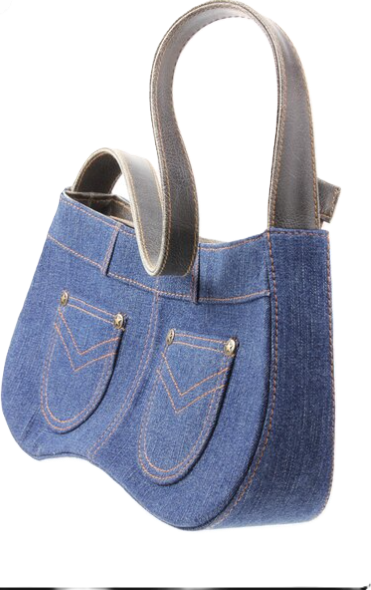
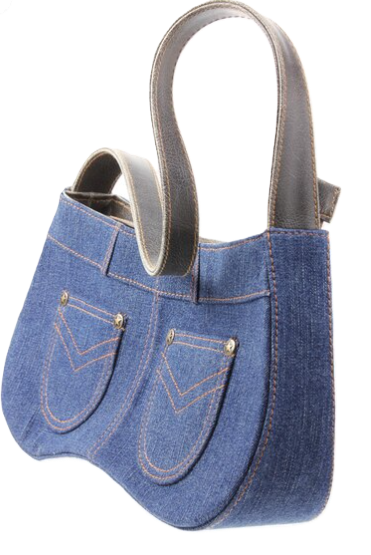
Adjusted the visibility

diff --git a/src/App.tsx b/src/App.tsx
@@ -130,7 +130,7 @@ export default function App() {
           <motion.div initial={{ opacity: 0, y: 30 }} animate={{ opacity: 1, y: 0 }} className="relative z-10 px-6 text-center">
             <div className="inline-flex items-center gap-4 px-6 py-2 rounded-full bg-zinc-950 text-white text-[11px] font-black uppercase tracking-[0.4em] mb-12 shadow-xl ring-8 ring-zinc-50 dark:ring-zinc-900 mx-auto transition-colors">
               <TrendingUp className="w-3.5 h-3.5" />
-              <span>Investment Proposal // RCA 2026</span>
+              <span>THE INVESTORS # RCA 2026</span>
             </div>
             <h1 className="text-6xl md:text-8xl lg:text-[140px] font-black text-zinc-950 dark:text-white tracking-[-0.06em] mb-12 leading-[0.8] uppercase mx-auto transition-colors text-center">
               Financial <br />
@@ -284,40 +284,63 @@ export default function App() {
       y: 2000,
       scale: 1,
       component: (
-        <div className="relative w-full max-w-7xl px-6 flex flex-col items-center justify-center min-h-[60vh]">
-          {/* Unconfined Massive Raw Material Pile */}
-          <div className="absolute inset-0 pointer-events-none -z-10 flex items-center justify-start overflow-visible">
+        <div className="relative w-full max-w-7xl px-6 lg:px-12 flex flex-col items-center min-h-[90vh] justify-center">
+          {/* Background Parallax Images - Refined Placement */}
+          <div className="absolute inset-0 pointer-events-none -z-10 overflow-visible">
              <motion.div 
-               initial={{ opacity: 0, scale: 0.5, x: -200 }}
-               whileInView={{ opacity: 0.7, scale: 1.5, x: -300 }}
-               transition={{ duration: 3, ease: "easeOut" }}
-               className="w-full max-w-5xl"
+               initial={{ opacity: 0, x: 150, y: 120, rotate: -5 }}
+               whileInView={{ opacity: 0.9, x: -100, y: 0, rotate: -10 }}
+               transition={{ duration: 4, ease: "easeOut" }}
+               className="absolute left-[-15%] bottom-[12%] w-[800px] h-[800px]"
              >
-                <img src="/images/collected-jeans-pile.png" alt="" className="w-full h-full object-contain filter drop-shadow-[0_60px_100px_rgba(0,0,0,0.2)]" />
+                <img src="/images/collected-jeans-pile.png" alt="" className="w-full h-full object-contain" />
+             </motion.div>
+             <motion.div 
+               initial={{ opacity: 0, x: 100, y: -50, rotate: 10 }}
+               whileInView={{ opacity: 0.8, x: 250, y: 150, rotate: 15 }}
+               transition={{ duration: 5, ease: "easeOut", delay: 0.2 }}
+               className="absolute right-[-5%] top-[12%] w-[500px] h-[500px]"
+             >
+                <img src="/images/bag0.png" alt="" className="w-full h-full object-contain drop-shadow-2xl" />
              </motion.div>
           </div>
 
-          <div className="w-full max-w-4xl space-y-12 relative z-10 text-center">
-            <div className="space-y-4">
-              <h2 className="text-7xl font-black text-zinc-950 dark:text-white tracking-tighter uppercase italic leading-none">Material <span className="text-indigo-600 underline decoration-zinc-100 dark:decoration-zinc-800 decoration-8 underline-offset-8 text-center">INPUTS</span></h2>
-              <p className="text-zinc-500 dark:text-zinc-400 text-2xl font-bold max-w-2xl mx-auto text-center">Granular material cost justification for Portfolio 01.</p>
+          <div className="w-full relative z-10 flex flex-col gap-8">
+            <div className="space-y-2 text-center lg:text-right">
+              <h2 className="text-5xl md:text-6xl lg:text-7xl font-black text-zinc-950 dark:text-white tracking-tighter uppercase italic leading-none">Material <span className="text-indigo-600 underline decoration-zinc-100 dark:decoration-zinc-800 decoration-4 underline-offset-4">INPUTS</span></h2>
+              <p className="text-zinc-500 dark:text-zinc-400 text-lg lg:text-xl font-bold uppercase tracking-tight">Granular material cost justification for Portfolio 01.</p>
             </div>
-            <Table 
-              headers={['Required Material', 'Budget (RWF)', 'Audit Purpose']}
-              rows={[
-                ['Second-hand Jeans', '50,000', 'Core Fabric Sourcing'],
-                ['Zippers', '15,000', 'Structural Fasteners'],
-                ['Thread', '5,000', 'Manufacturing Essential'],
-                ['Inner Lining Fabric', '15,000', 'Internal Finishing'],
-                ['Handles & Straps', '10,000', 'Hardware'],
-                ['Labels & Decorations', '10,000', 'Branding Basis'],
-                ['Packaging', '20,000', 'Market Presentation'],
-                ['Marketing & Transport', '40,000', 'Outreach & Logistics'],
-                ['Extra Material Reserve', '50,000', 'Production Buffer'],
-                [<span className="text-indigo-600 font-black uppercase tracking-widest text-[10px]">Total Material Capex</span>, '', <span className="text-indigo-600 font-black text-2xl text-center">205,000</span>]
-              ]}
-              highlightLast
-            />
+            
+            <div className="grid grid-cols-1 lg:grid-cols-12 gap-8 items-start">
+               <div className="lg:col-span-8">
+                  <Table 
+                    headers={['Required Material', 'Budget (RWF)']}
+                    rows={[
+                      ['Second-hand Jeans', '50,000'],
+                      ['Zippers & Thread', '20,000'],
+                      ['Inner Lining Fabric', '15,000'],
+                      ['Handles & Straps', '10,000'],
+                      ['Labels & Branding', '10,000'],
+                      ['Packaging', '20,000'],
+                      ['Marketing & Transport', '40,000'],
+                      ['Reserve Buffer', '40,000'],
+                      [<span className="text-indigo-600 font-black uppercase text-[10px]">Total CAPEX</span>, <span className="text-indigo-600 font-black text-2xl">205,000</span>]
+                    ]}
+                    highlightLast
+                  />
+               </div>
+               <div className="lg:col-span-4 h-full">
+                  <div className="p-6 lg:p-8 rounded-3xl bg-white/60 dark:bg-zinc-900/60 backdrop-blur-2xl border-4 border-zinc-100 dark:border-zinc-800 shadow-2xl space-y-4 lg:space-y-6 transition-colors h-full flex flex-col justify-center text-center lg:text-right">
+                     <div className="w-12 h-1 bg-indigo-600 rounded-full mx-auto lg:ml-auto lg:mr-0" />
+                     <p className="text-xl lg:text-2xl font-black text-zinc-950 dark:text-white uppercase tracking-tighter leading-tight italic">
+                       "Waste transformation into functional assets."
+                     </p>
+                     <p className="text-xs lg:text-sm font-bold text-zinc-500 dark:text-zinc-400 uppercase tracking-widest leading-relaxed">
+                       Every material is sourced locally, emphasizing durability and aesthetic consistency across the first production cycle.
+                     </p>
+                  </div>
+               </div>
+            </div>
           </div>
         </div>
       )
@@ -329,41 +352,52 @@ export default function App() {
       y: 2000,
       scale: 1,
       component: (
-        <div className="relative flex flex-col items-center justify-center w-full max-w-7xl px-6 text-center">
-          {/* Persisting Raw Material Anchor - Smaller & Unconfined */}
-          <div className="absolute bottom-0 left-[-10%] pointer-events-none -z-10 p-8">
-             <div className="w-96 md:w-[600px] opacity-20 rotate-[-5deg]">
-                <img src="/images/collected-jeans-pile.png" alt="" className="w-full h-full object-contain" />
-             </div>
+        <div className="relative w-full max-w-7xl px-6 lg:px-12 flex flex-col items-center min-h-[85vh] justify-center">
+          {/* Background Parallax Image - Better Contained */}
+          <div className="absolute inset-0 pointer-events-none -z-10 overflow-visible">
+             <motion.div 
+               initial={{ opacity: 0, scale: 0.8, rotate: -10, x: 100 }}
+               whileInView={{ opacity: 0.5, scale: 1.3, rotate: 5, x: 350, y: 150 }}
+               transition={{ duration: 6, ease: "easeOut" }}
+               className="absolute right-[-15%] bottom-[-10%] w-[900px] h-[900px]"
+             >
+                <img src="/images/bag.png" alt="" className="w-full h-full object-contain drop-shadow-2xl" />
+             </motion.div>
           </div>
 
-          <div className="space-y-10 w-full max-w-5xl flex flex-col items-center">
-            <div className="space-y-3">
-              <h2 className="text-7xl font-black text-zinc-950 dark:text-white tracking-tighter uppercase leading-none text-center italic">Tailor <br /><span className="text-indigo-600">LOGIC</span></h2>
-              <p className="text-2xl font-bold text-zinc-500 dark:text-zinc-400 max-w-md mx-auto text-center italic">Partnership with local tailors for expert manufacturing.</p>
-            </div>
-            
-            <div className="grid grid-cols-1 lg:grid-cols-2 gap-12 items-center w-full">
-              <div className="p-8 rounded-xl bg-indigo-600 text-white shadow-3xl relative overflow-hidden group mx-auto w-full max-w-md text-center">
-                 <div className="absolute top-0 right-0 p-8 opacity-20 group-hover:scale-110 transition-transform">
-                    <ShoppingBag size={120} />
-                 </div>
-                 <span className="text-xs font-black uppercase tracking-[0.3em] opacity-60">Unit Production Rate</span>
-                 <p className="text-6xl font-black tracking-tighter">3,500 <span className="text-xl font-normal">RWF</span></p>
-                 <p className="text-sm font-bold mt-2 uppercase tracking-widest text-indigo-200 text-center">Per Bag Produced</p>
+          <div className="w-full max-w-6xl relative z-10 grid grid-cols-1 lg:grid-cols-2 gap-16 lg:gap-24 items-center">
+            <div className="space-y-10 flex flex-col items-center lg:items-start text-center lg:text-left">
+              <div className="space-y-4">
+                <h2 className="text-8xl lg:text-9xl font-black text-zinc-950 dark:text-white tracking-tighter uppercase leading-[0.8] italic">Tailor <br /><span className="text-indigo-600">LOGIC</span></h2>
+                <p className="text-2xl lg:text-3xl font-bold text-zinc-500 dark:text-zinc-400 max-w-md mx-auto lg:mx-0 uppercase tracking-tight">Strategic manufacturing partnership.</p>
               </div>
-              <Table 
-                headers={['Production Component', 'Quantity / Rate', 'Subtotal']}
+              
+              <div className="w-full max-w-md">
+                <div className="p-10 lg:p-12 rounded-3xl bg-indigo-600 text-white shadow-[0_40px_80px_-20px_rgba(79,70,229,0.5)] relative overflow-hidden group mb-8 transition-transform hover:scale-[1.02]">
+                   <div className="absolute top-0 right-0 p-10 opacity-20 group-hover:scale-110 transition-transform">
+                      <ShoppingBag size={140} />
+                   </div>
+                   <span className="text-xs font-black uppercase tracking-[0.4em] opacity-60">Unit Production Rate</span>
+                   <p className="text-7xl lg:text-8xl font-black tracking-tighter my-4">3,500 <span className="text-2xl font-normal opacity-50">RWF</span></p>
+                   <div className="h-2 w-24 bg-white/30 rounded-full" />
+                </div>
+              </div>
+            </div>
+
+            <div className="space-y-10 lg:space-y-12">
+               <Table 
+                headers={['Production Component', 'Rate / Target', 'Subtotal']}
                 rows={[
-                  ['Production Target', '40 Bags', 'Monthly Cycle'],
-                  ['Labour Rate per Unit', '3,500 RWF', 'Fixed Contract'],
-                  [<span className="text-indigo-600 font-black uppercase text-[10px]">Total Labour Basis</span>, '', <span className="font-black text-3xl text-center">140,000 RWF</span>]
+                  ['Production Target', '40 Bags', 'Monthly'],
+                  ['Labour per Unit', '3,500 RWF', 'Fixed'],
+                  [<span className="text-indigo-600 font-black uppercase text-[10px]">Labour Basis</span>, '', <span className="font-black text-4xl lg:text-5xl">140,000</span>]
                 ]}
                 highlightLast
               />
-            </div>
-            <div className="aspect-[4/3] w-full max-w-md rounded-xl overflow-hidden border-4 border-white dark:border-zinc-800 shadow-2xl bg-zinc-50 dark:bg-zinc-900 transition-colors mt-8">
-               <img src="/images/bag.png" alt="Finished Product" className="w-full h-full object-contain p-8" />
+              <div className="p-8 lg:p-10 rounded-3xl border-4 border-zinc-950 dark:border-white shadow-2xl transition-colors bg-white/80 dark:bg-zinc-900/80 backdrop-blur-2xl">
+                 <p className="text-xs font-black text-zinc-400 uppercase tracking-widest text-center">Quality Assurance</p>
+                 <p className="text-3xl lg:text-4xl font-black text-zinc-950 dark:text-white uppercase tracking-tighter text-center italic">"100% Export Grade Standards"</p>
+              </div>
             </div>
           </div>
         </div>